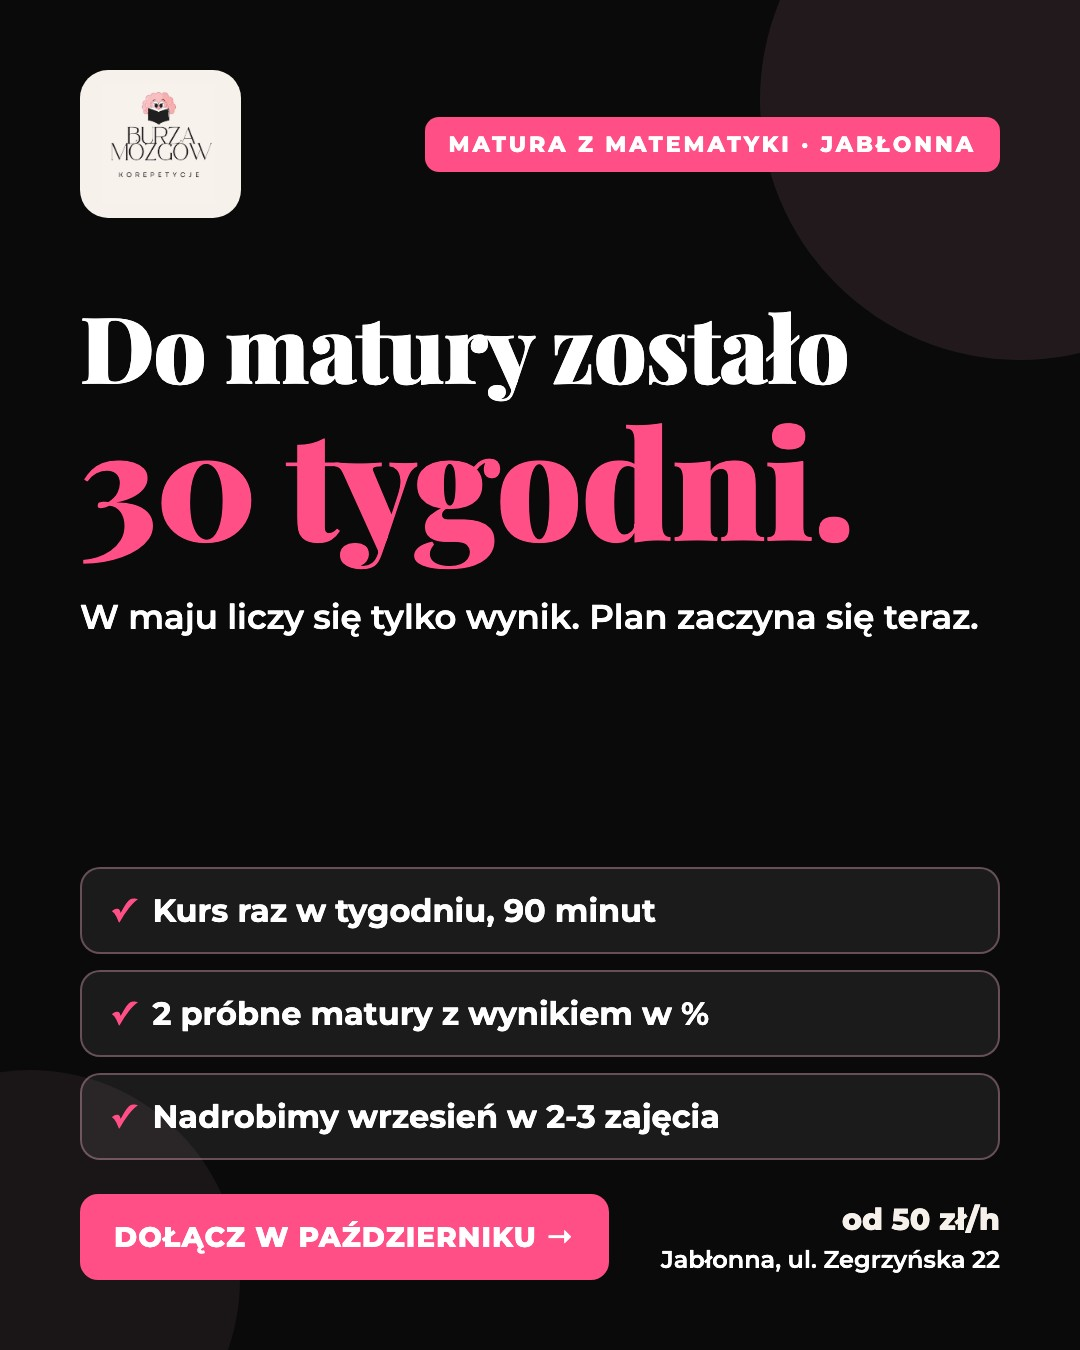
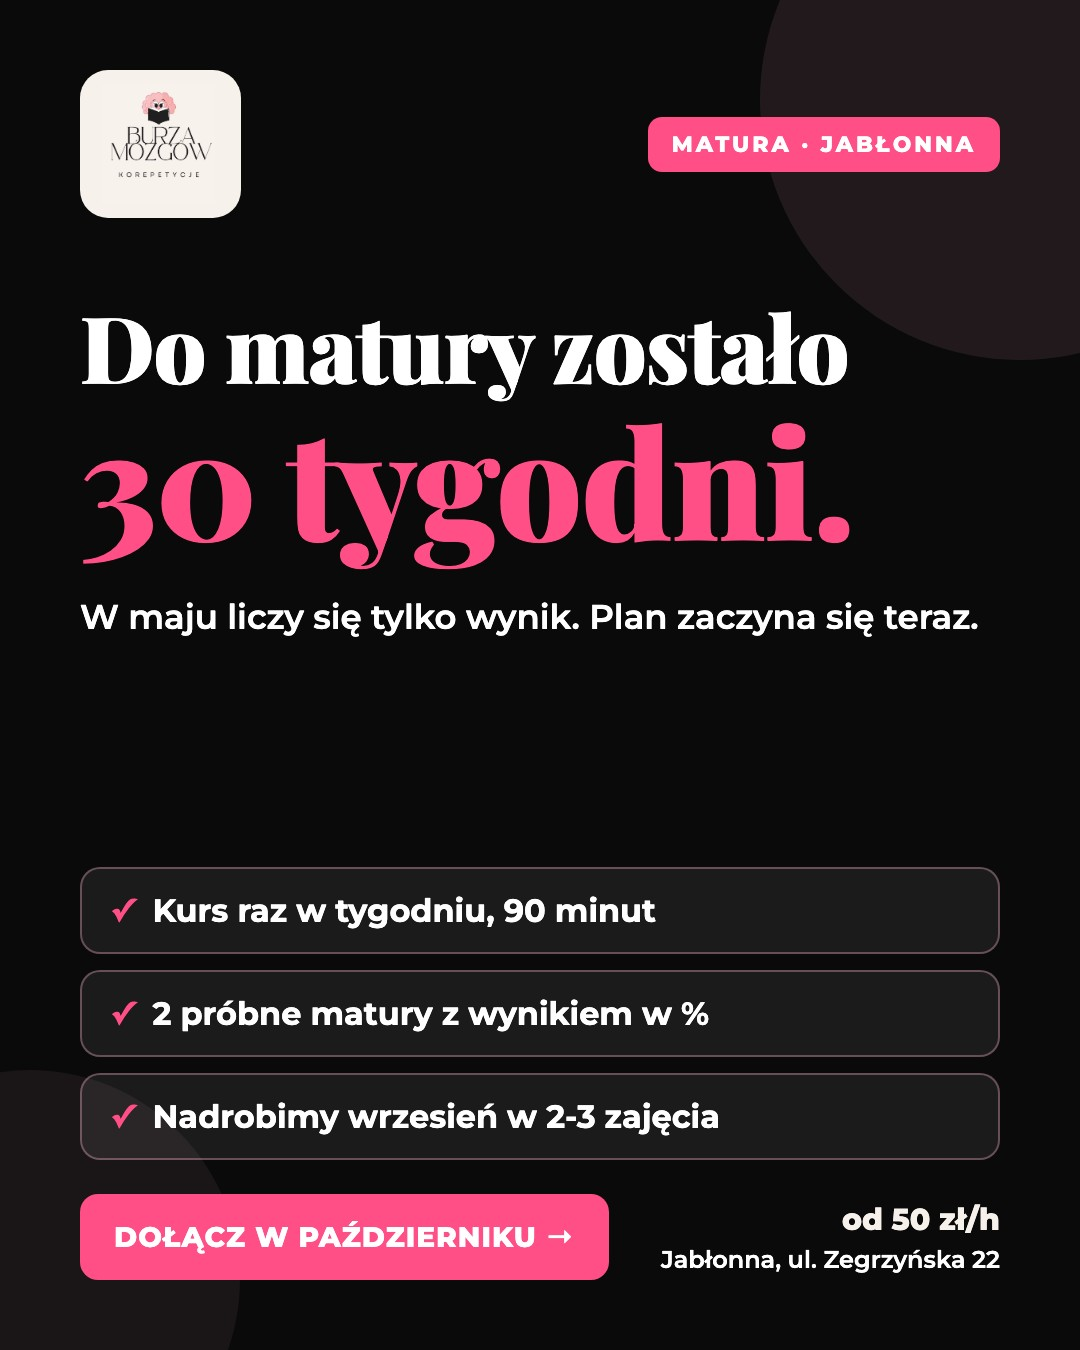
Grafiki Meta Jabłonna: bez nazw przedmiotów

Changed region(s): [[0.3667, 0.0622, 0.7333, 0.1556]]

diff --git a/social/meta-jablonna-kursy/m1_matura_30tyg_v2.html b/social/meta-jablonna-kursy/m1_matura_30tyg_v2.html
@@ -16,7 +16,7 @@ h1{font-family:'Playfair Display';font-weight:900;font-size:92px;line-height:1.0
 .cta{white-space:nowrap;background:#ff4f86;color:#fff;font-weight:800;font-size:28px;letter-spacing:1px;padding:26px 34px;border-radius:18px}
 .info{white-space:nowrap;text-align:right;font-size:24px;font-weight:600;color:#ffffff;line-height:1.5}.info b{color:#f7f1ec;font-size:30px}
 </style></head><body><div class="c1"></div><div class="c2"></div><div class="w">
-<div class="top"><div class="logo"><img src="logo.png"></div><div class="tag">MATURA Z MATEMATYKI · JABŁONNA</div></div>
+<div class="top"><div class="logo"><img src="logo.png"></div><div class="tag">MATURA · JABŁONNA</div></div>
 <h1>Do matury zostało<br><span class="big">30 tygodni.</span></h1><div class="sub">W maju liczy się tylko wynik. Plan zaczyna się teraz.</div>
 <div class="list"><div class="it"><b>✓</b>Kurs raz w tygodniu, 90 minut</div><div class="it"><b>✓</b>2 próbne matury z wynikiem w %</div><div class="it"><b>✓</b>Nadrobimy wrzesień w 2-3 zajęcia</div></div>
 <div class="foot"><div class="cta">DOŁĄCZ W PAŹDZIERNIKU →</div><div class="info"><b>od 50 zł/h</b><br>Jabłonna, ul. Zegrzyńska 22</div></div>

diff --git a/social/meta-jablonna-kursy/m4_wrzesien_v2.html b/social/meta-jablonna-kursy/m4_wrzesien_v2.html
@@ -18,6 +18,6 @@ h1{font-family:'Playfair Display';font-weight:900;font-size:92px;line-height:1.0
 </style></head><body><div class="c1"></div><div class="c2"></div><div class="w">
 <div class="top"><div class="logo"><img src="logo.png"></div><div class="tag">KURSY MATURA I E8 · JABŁONNA</div></div>
 <h1>Przegapiliście<br><span class="big">wrzesień?</span></h1><div class="sub">Nic straconego. Kursy trwają, a materiał nadrobimy razem.</div>
-<div class="list"><div class="it"><b>✓</b>Matura z matematyki</div><div class="it"><b>✓</b>E8: matematyka i polski</div><div class="it"><b>✓</b>5 minut od Legionowa</div></div>
+<div class="list"><div class="it"><b>✓</b>Kurs maturalny</div><div class="it"><b>✓</b>Kurs do egzaminu ósmoklasisty</div><div class="it"><b>✓</b>5 minut od Legionowa</div></div>
 <div class="foot"><div class="cta">SPRAWDŹ WOLNE MIEJSCA →</div><div class="info"><b>od 50 zł/h</b><br>Jabłonna, ul. Zegrzyńska 22</div></div>
 </div></body></html>

diff --git a/social/meta-jablonna-kursy/m6_wynik_86_v2.html b/social/meta-jablonna-kursy/m6_wynik_86_v2.html
@@ -19,6 +19,6 @@ h1{font-family:'Playfair Display';font-weight:900;font-size:92px;line-height:1.0
 <div class="top"><div class="logo"><img src="logo.png"></div><div class="tag">KURSY MATURA I E8 · JABŁONNA</div></div>
 <div class="huge">86%</div>
 <h1 style="margin-top:10px;font-size:72px">tyle wynosi średni wynik naszych kursantów na egzaminie.</h1>
-<div class="list"><div class="it"><b>✓</b>Matura z matematyki</div><div class="it"><b>✓</b>E8: matematyka i polski</div></div>
+<div class="list"><div class="it"><b>✓</b>Kurs maturalny</div><div class="it"><b>✓</b>Kurs do egzaminu ósmoklasisty</div></div>
 <div class="foot"><div class="cta">DOŁĄCZ W PAŹDZIERNIKU →</div><div class="info"><b>od 50 zł/h</b><br>Jabłonna, ul. Zegrzyńska 22</div></div>
 </div></body></html>
